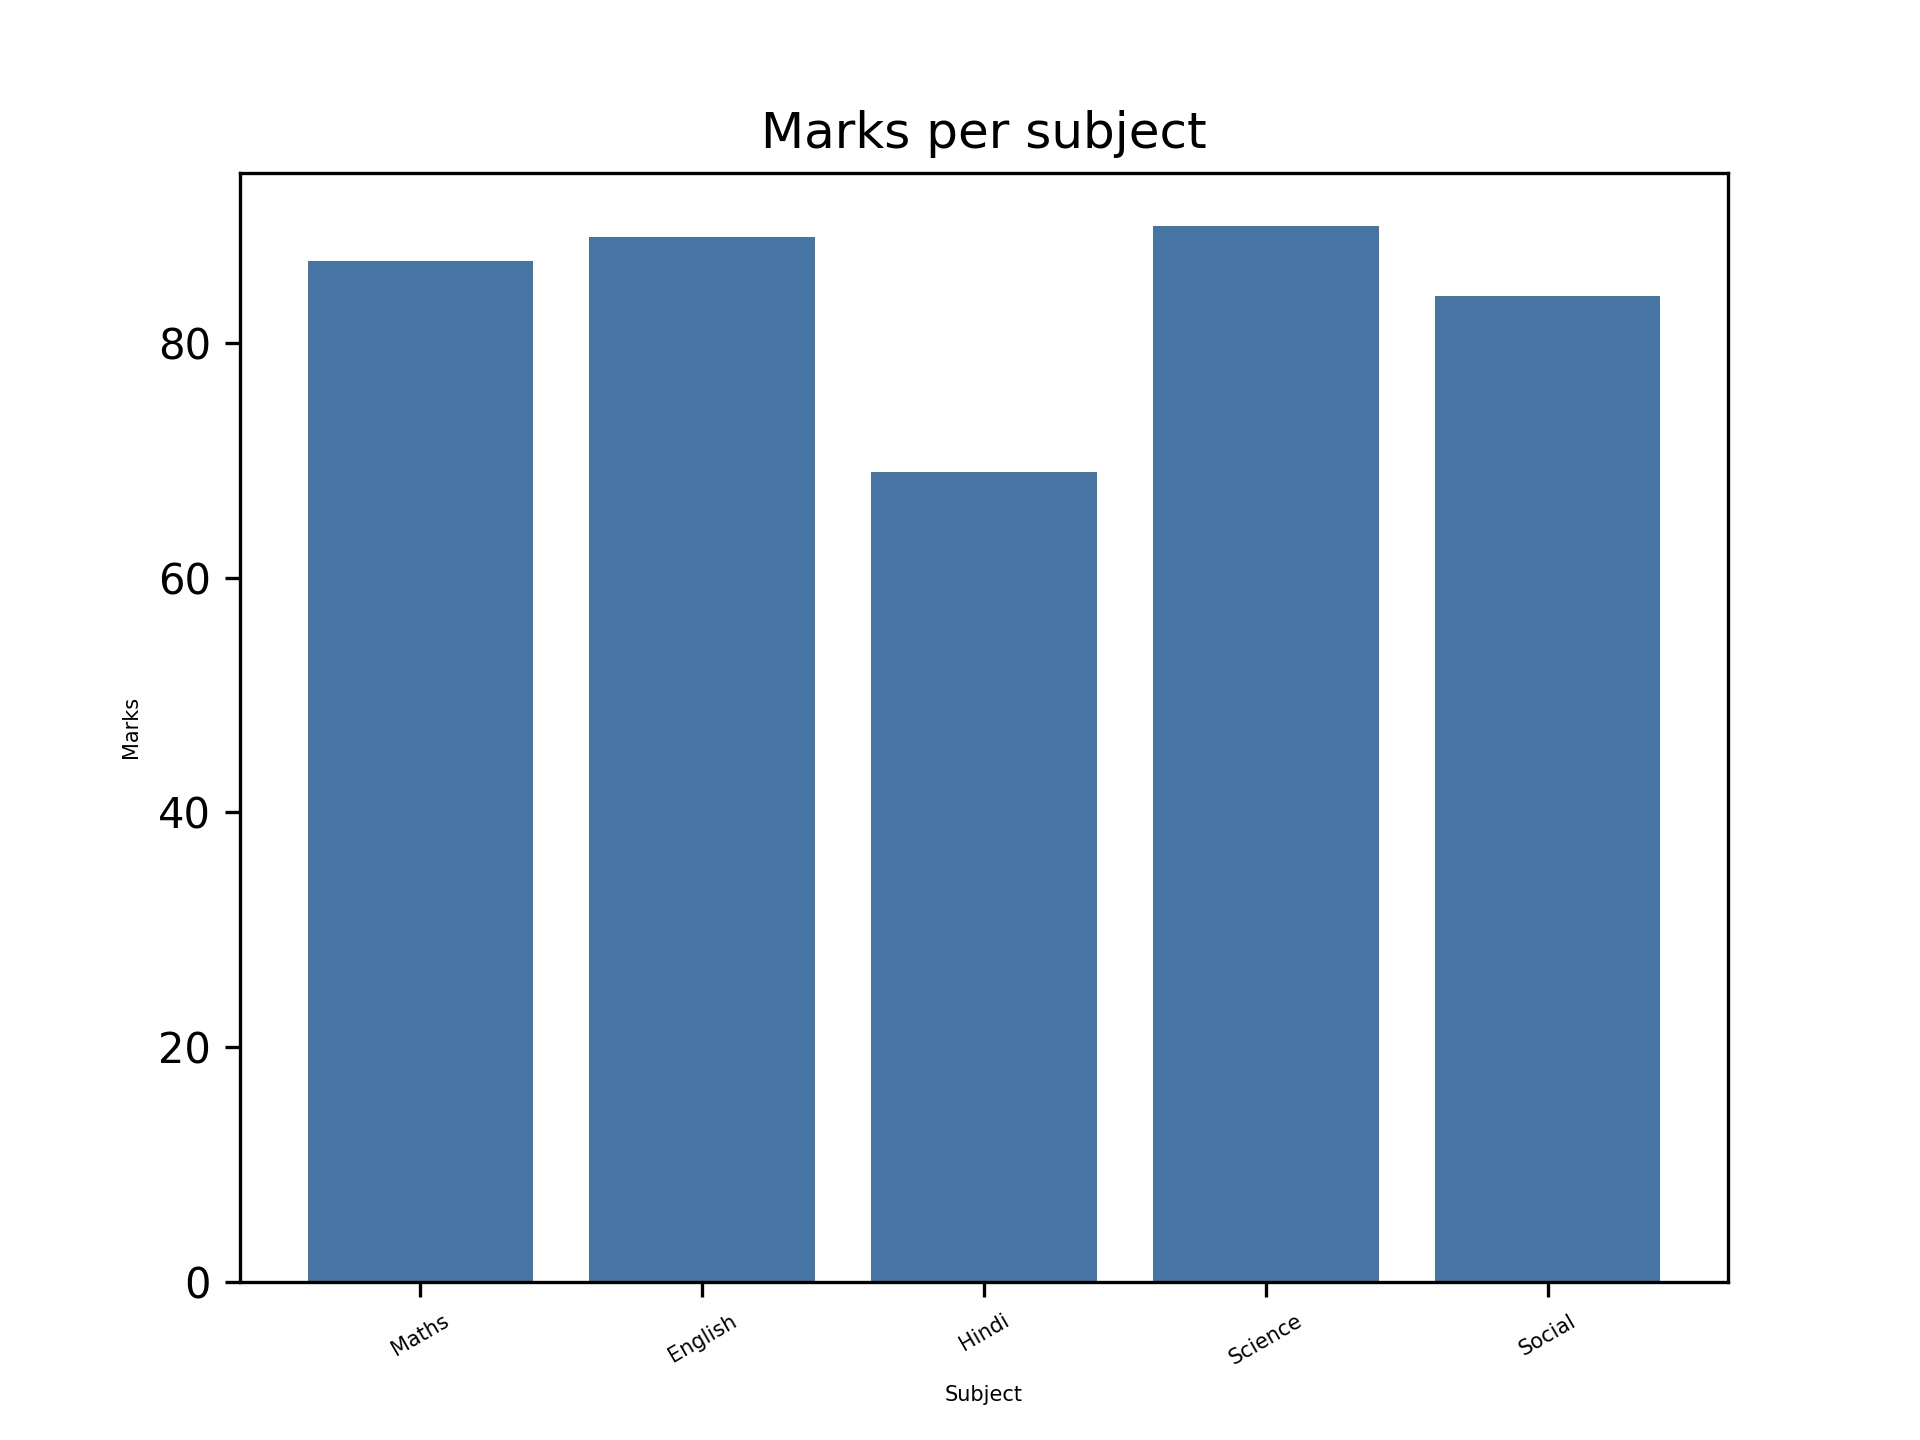
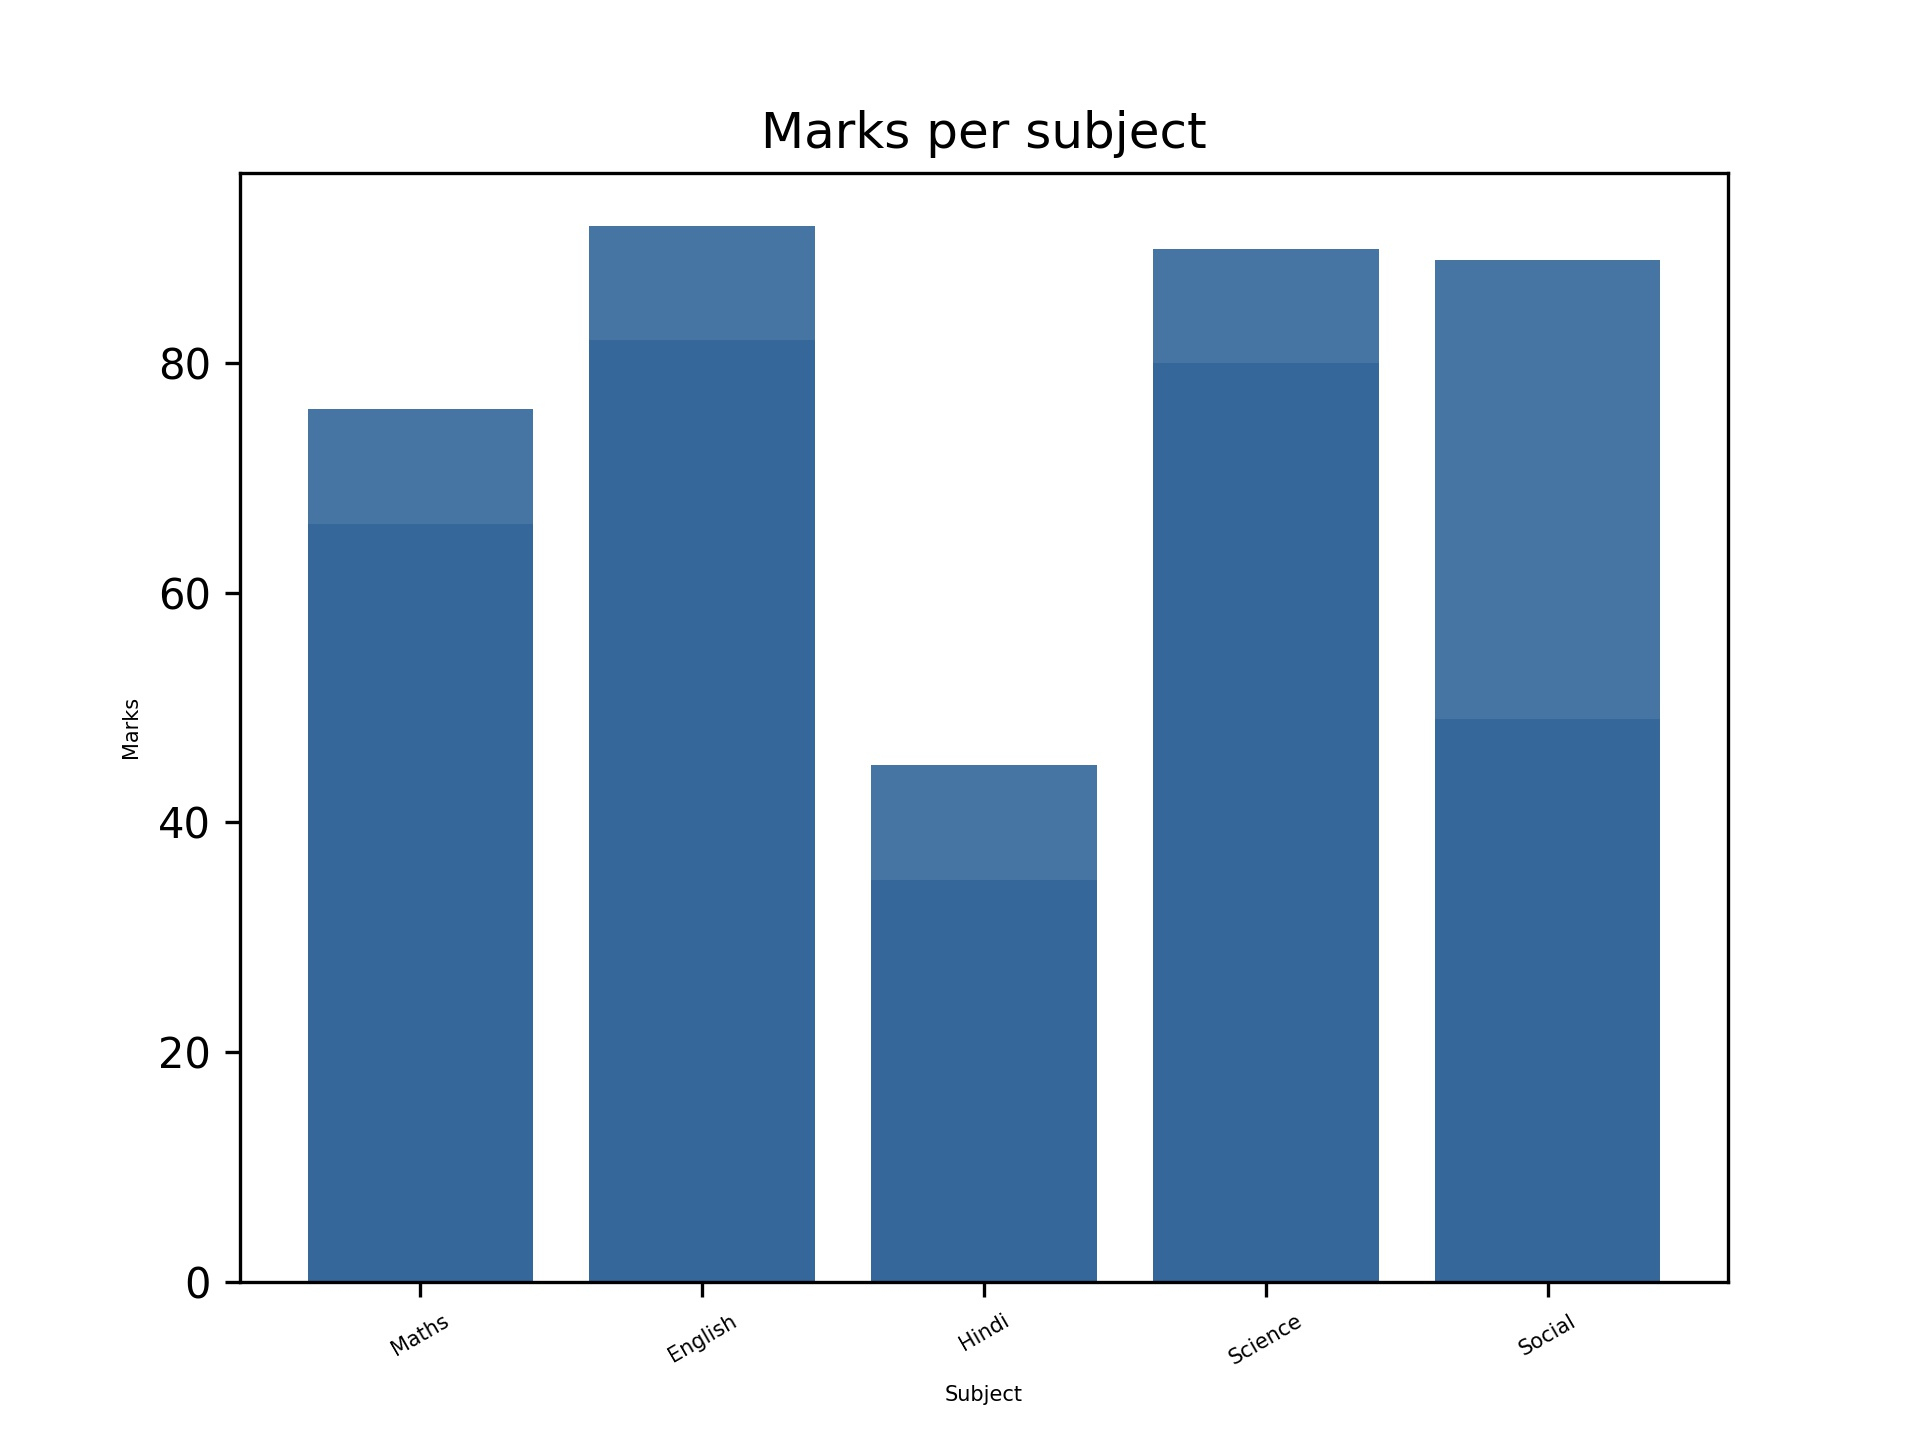
Progress graph and acedamic graph added

diff --git a/database/views.py b/database/views.py
@@ -7,7 +7,7 @@ from django.views.decorators.csrf import csrf_exempt
 from django.views.decorators.csrf import csrf_protect
 from django.utils.decorators import method_decorator
 from django.utils.dateparse import parse_date
-from .graphs import yearlyGraph
+from .graphs import yearlyGraph, progressGraph
 
 
 
@@ -138,7 +138,7 @@ class TeacherApi(APIView):
         
 
 class StandardApi(APIView):
-    
+
     def post(self, request):
 
         params = json.loads(request.body)
@@ -309,10 +309,25 @@ class ReportCardApi(APIView):
                     reportCard.save()
                     #Graph saving
                     marks = [reportCard.marks_in_maths, reportCard.marks_in_english, reportCard.marks_in_hindi, reportCard.marks_in_science, reportCard.marks_in_social]
-                    plt = yearlyGraph(marks)
-                    print('before')
-                    plt.savefig('media/'+str(params['student_id'])+str(params['year'])+'.jpg',transparent = True,dpi = 300) 
-                    print('amar')
+                    plt1 = yearlyGraph(marks)
+                    
+                    plt1.savefig('media/'+str(params['student_id'])+str(params['year'])+'.jpg',transparent = True,dpi = 300) 
+                    
+                    #progress Graph saving
+                    reportCard1 = ReportCard.objects.filter(student = student)
+                    
+                    data = []
+                    year = []
+                    for i in reportCard1:
+                        year.append(i.year)
+                        temp = []
+                        temp.extend([i.marks_in_maths,i.marks_in_english,i.marks_in_hindi,i.marks_in_science,i.marks_in_social])
+                        data.append(temp)
+                    plt2, art = progressGraph(data,year)
+                    print('bf')
+                    plt2.savefig('media/'+str(params['student_id'])+'.jpg',transparent = True,dpi = 300,additional_artists=art,
+        bbox_inches="tight") 
+                    print('here')
                     response_data = reportCard.json()
                     return HttpResponse(json.dumps(response_data), content_type="application/json")
                 
@@ -351,10 +366,25 @@ class ReportCardApi(APIView):
                 reportCard.remarks = params['remarks']
                 reportCard.save()
 
-                #Graph saving
+                #acedmic Graph saving
                 marks = [reportCard.marks_in_maths, reportCard.marks_in_english, reportCard.marks_in_hindi, reportCard.marks_in_science, reportCard.marks_in_social]
-                plt = yearlyGraph(marks)
-                plt.savefig('media/'+student_id+year+'.jpg',transparent = True,dpi = 300)
+                plt1 = yearlyGraph(marks)
+                plt1.savefig('media/'+student_id+year+'.jpg',transparent = True,dpi = 300)
+
+                #progress Graph saving
+                reportCard1 = ReportCard.objects.filter(student = student)
+            
+                data = []
+                year = []
+                for i in reportCard1:
+                    year.append(i.year)
+                    temp = []
+                    temp.extend([i.marks_in_maths,i.marks_in_english,i.marks_in_hindi,i.marks_in_science,i.marks_in_social])
+                    data.append(temp)
+                plt2, art = progressGraph(data,year)
+                
+                plt2.savefig('media/'+str(params['student_id'])+'.jpg',transparent = True,dpi = 300,additional_artists=art,
+    bbox_inches="tight") 
 
                 return HttpResponse('Changes made')
             except:
@@ -382,18 +412,25 @@ class ReportCardApi(APIView):
 
 class graphApi(APIView):
 
-    def get(self,request, student_id, year):
+    def get(self,request, student_id):
         try:
             student = Student.objects.get(student_id = student_id)
             try:
-                reportCard = ReportCard.objects.get(student = student, year = year)
-                marks = [reportCard.marks_in_maths, reportCard.marks_in_english, reportCard.marks_in_hindi, reportCard.marks_in_science, reportCard.marks_in_social]
+                reportCard = ReportCard.objects.filter(student = student)
+            
+                data = []
+                year = []
+                for i in reportCard:
+                    year.append(i.year)
+                    temp = []
+                    temp.extend([i.marks_in_maths,i.marks_in_english,i.marks_in_hindi,i.marks_in_science,i.marks_in_social])
+                    data.append(temp)
+                plt, art = progressGraph(data,year)
                 
-                plt = yearlyGraph(marks)
-                plt.savefig('media/'+student_id+year+'.jpg',transparent = True,dpi = 300) 
-                return HttpResponse('graph done')
-                #response_data = reportCard.json()
-                #return HttpResponse(json.dumps(response_data), content_type="application/json")
+                plt.savefig('media/'+student_id+'.jpg',transparent = True,dpi = 300,additional_artists=art,
+    bbox_inches="tight") 
+                
+                
             
             except:
                 return HttpResponse('Report card not there')

diff --git a/database/graphs.py b/database/graphs.py
@@ -11,3 +11,19 @@ def yearlyGraph(marks):
     plt.xticks(index, subject, fontsize = 5, rotation = 30)
     plt.title('Marks per subject')
     return plt
+
+def progressGraph(marks, year):
+    
+    subject = ['Maths','English', 'Hindi', 'Science','Social']
+    index = np.arange(len(subject))
+    
+    for no,i in enumerate(marks):
+        plt.scatter(index,i, label = year[no])
+    plt.xlabel('Subject', fontsize= 5)
+    plt.ylabel('Marks', fontsize = 5)
+    plt.xticks(index, subject, fontsize = 5, rotation = 30)
+    plt.title('Progress Graph')
+    lgd = plt.legend(loc='center left', bbox_to_anchor=(1.0, 0.5))
+    art = []
+    art.append(lgd)
+    return plt,art

diff --git a/database/models.py b/database/models.py
@@ -163,5 +163,6 @@ class ReportCard(models.Model):
         response_data['science'] = self.marks_in_science
         response_data['social'] = self.marks_in_social
         response_data['percentage'] = self.percentile()
-        response_data['graph'] = '/media/'+str(self.student.student_id)+str(self.year)+'.jpg'
+        response_data['acedmicGraph'] = '/media/'+str(self.student.student_id)+str(self.year)+'.jpg'
+        response_data['progressGraph'] = '/media/'+str(self.student.student_id)+'.jpg'
         return response_data

diff --git a/database/urls.py b/database/urls.py
@@ -13,5 +13,5 @@ urlpatterns = [
     url(r'^getstudent/(?P<student_id>[0-9]+)/$', views.StudentApi.as_view()),
     url(r'^reportcard/', views.ReportCardApi.as_view(), name='school'),
     url(r'^getreportcard/(?P<student_id>[0-9]+)/(?P<year>[0-9]+)/$', views.ReportCardApi.as_view()),
-    url(r'^getGraph/(?P<student_id>[0-9]+)/(?P<year>[0-9]+)/$', views.graphApi.as_view()),
+    url(r'^getGraph/(?P<student_id>[0-9]+)/', views.graphApi.as_view()),
 ]
